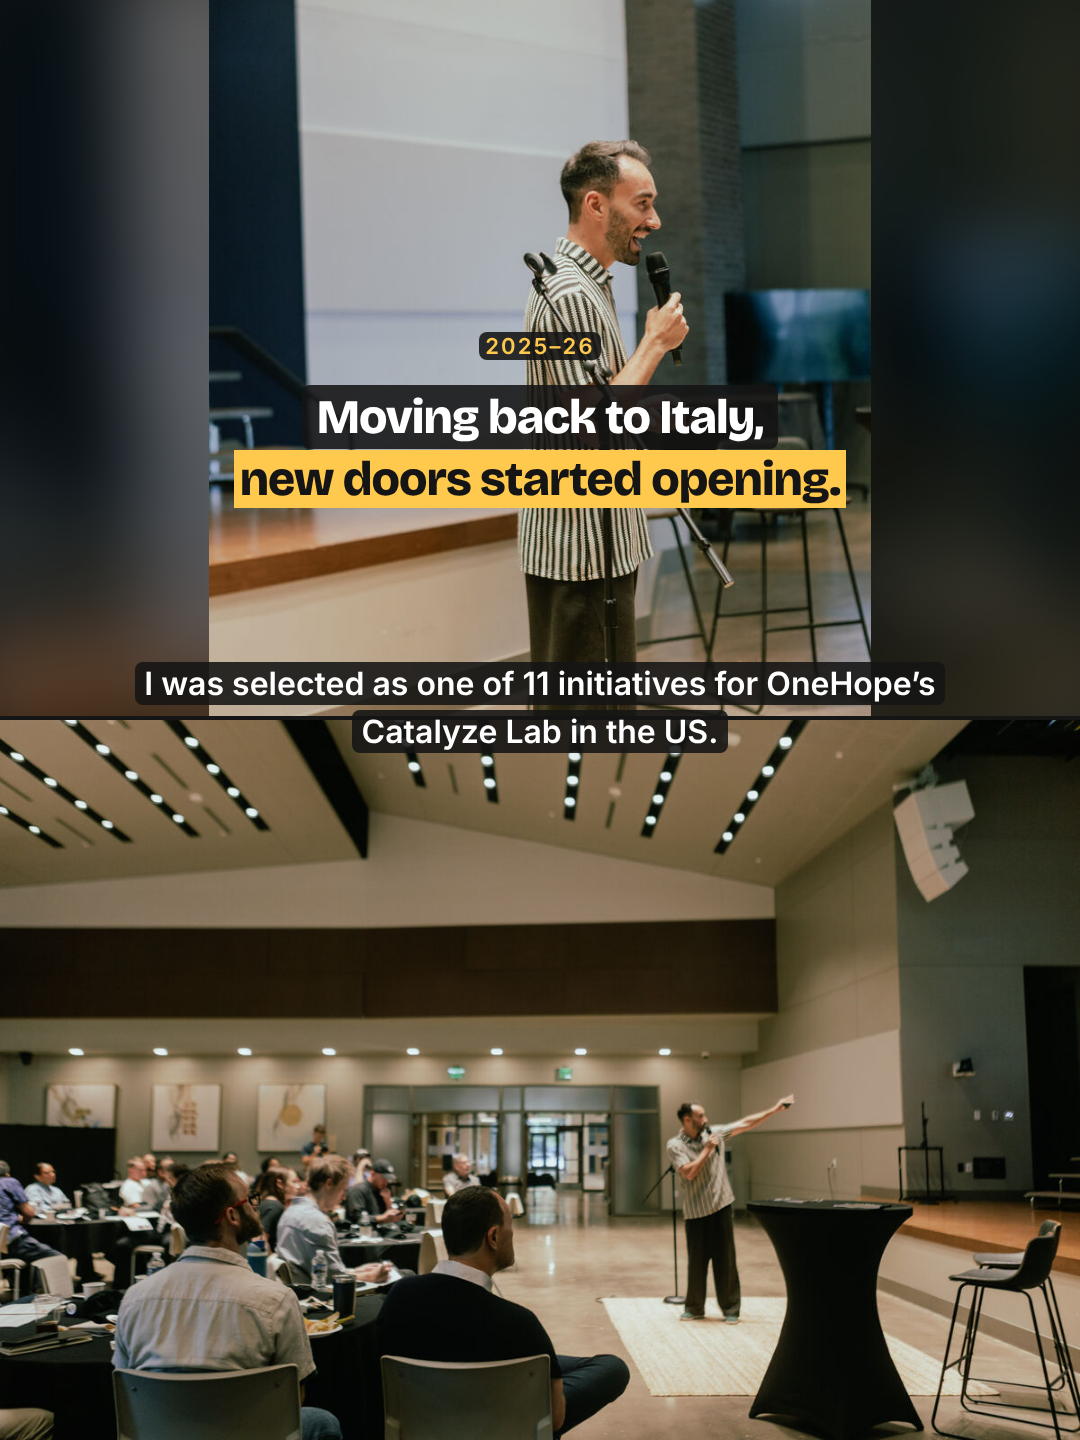
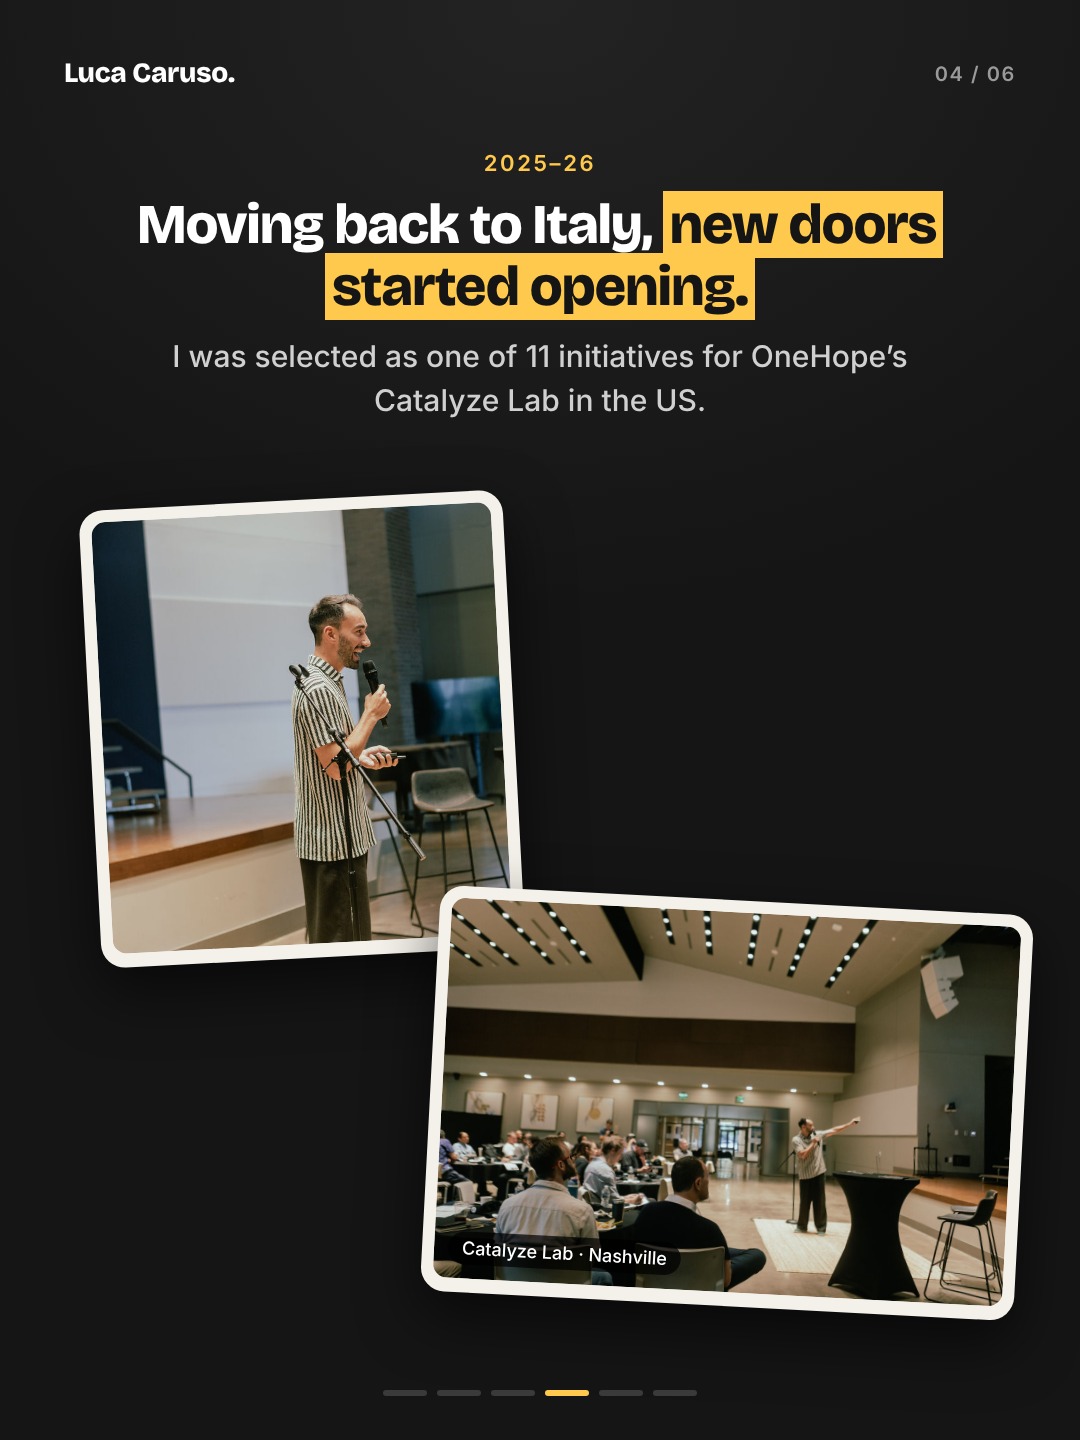
Instagram slides: photo-card redesign, Comment MEDIA CTA
Claude-Session: https://claude.ai/code/session_01QugX99JcozbgDXdxc4CrwP

diff --git a/instagram/slides.html b/instagram/slides.html
@@ -2,88 +2,110 @@
 <html><head><meta charset="utf-8">
 <link rel="stylesheet" href="https://fonts.googleapis.com/css2?family=Bricolage+Grotesque:opsz,wght@12..96,800&family=Inter:wght@500;600&family=Caveat:wght@600&display=swap">
 <style>
-:root{--bg:#151515;--y:#FFC94D}
+:root{--bg:#151515;--y:#FFC94D;--body:#d0d0d0;--muted:#9a9a9a}
 *{box-sizing:border-box}
 body{margin:0;background:#000;display:flex;flex-direction:column;gap:40px;padding:40px;align-items:flex-start}
-/* 3:4 like the original posts */
-.slide{position:relative;width:1080px;height:1440px;overflow:hidden;background:var(--bg);color:#fff;font-family:Inter,sans-serif}
-/* a frame shows the whole photo (contain); any gap is filled with a blurred copy */
-.frame{position:absolute;left:0;width:100%;overflow:hidden;background:var(--bg)}
-.frame .blur{position:absolute;inset:-40px;width:calc(100% + 80px);height:calc(100% + 80px);object-fit:cover;filter:blur(40px) brightness(.55)}
-.frame .full{position:absolute;inset:0;width:100%;height:100%;object-fit:contain}
-.h{font-family:"Bricolage Grotesque",Inter,sans-serif;font-weight:800;letter-spacing:-.02em;line-height:1.1;margin:0;color:#fff;text-align:center}
+/* 3:4, like the original posts */
+.slide{position:relative;width:1080px;height:1440px;overflow:hidden;color:#fff;font-family:Inter,sans-serif;
+  background:radial-gradient(120% 70% at 50% 0%,#232323 0%,#151515 60%)}
+.brand{position:absolute;left:64px;top:56px;font-family:"Bricolage Grotesque",Inter,sans-serif;font-weight:800;font-size:28px;letter-spacing:-.01em}
+.count{position:absolute;right:64px;top:62px;font:600 20px Inter,sans-serif;letter-spacing:.08em;color:var(--muted)}
+.bars{position:absolute;left:0;right:0;bottom:44px;display:flex;justify-content:center;gap:10px}
+.bars i{display:block;width:44px;height:6px;border-radius:3px;background:#3a3a3a}
+.bars i.on{background:var(--y)}
+.text{position:absolute;left:80px;right:80px;display:flex;flex-direction:column;align-items:center;gap:18px;text-align:center}
+.kicker{margin:0;font:600 22px Inter,sans-serif;letter-spacing:.12em;text-transform:uppercase;color:var(--y)}
+.h{margin:0;font-family:"Bricolage Grotesque",Inter,sans-serif;font-weight:800;letter-spacing:-.02em;line-height:1.1;font-size:56px}
 .hl{background:var(--y);color:#151515;padding:0 .12em;-webkit-box-decoration-break:clone;box-decoration-break:clone}
-.box{background:#151515e0;padding:.06em .3em;line-height:1.5;-webkit-box-decoration-break:clone;box-decoration-break:clone;border-radius:8px}
-.kicker{margin:0;font:600 22px Inter,sans-serif;letter-spacing:.1em;text-transform:uppercase;color:var(--y);text-align:center}
-.body{margin:0;font:500 30px/1.5 Inter,sans-serif;color:#fff;text-align:center}
-.hand{font-family:Caveat,cursive;font-weight:600;color:#fff}
-.text{position:absolute;left:90px;right:90px;display:flex;flex-direction:column;gap:18px;align-items:center}
+.body{margin:0;font:500 30px/1.45 Inter,sans-serif;color:var(--body);max-width:860px}
+/* photo cards: whole photo, never cropped */
+.card{position:absolute;padding:12px 12px 14px;background:#f4f1ea;border-radius:24px;box-shadow:0 24px 60px #00000099}
+.card img{display:block;height:auto;border-radius:14px}
+.pill{position:absolute;left:26px;bottom:28px;padding:6px 14px;border-radius:999px;background:#000000b3;color:#fff;font:500 18px Inter,sans-serif}
+.hand{position:absolute;font-family:Caveat,cursive;font-weight:600;color:#fff}
 </style></head><body>
 
-<!-- SLIDE 1: hook (whole photo) -->
+<!-- 1 · HOOK -->
 <div class="slide" id="s1">
-  <div class="frame" style="top:0;height:1440px"><img class="blur" src="../images/hero-luca.jpg"><img class="full" src="../images/hero-luca.jpg"></div>
-  <div class="text" style="top:1000px">
-    <h1 class="h" style="font-size:56px"><span class="box">I&rsquo;ve been carrying this in my heart</span><br><span class="hl">for years&hellip;</span></h1>
+  <div class="brand">Luca Caruso.</div><div class="count">01 / 06</div>
+  <div class="card" style="left:228px;top:150px;transform:rotate(-3deg)"><img src="../images/hero-luca.jpg" style="width:600px"></div>
+  <div class="text" style="top:1130px">
+    <h1 class="h" style="font-size:64px">I&rsquo;ve been carrying this in my heart <span class="hl">for years&hellip;</span></h1>
   </div>
+  <div class="hand" style="right:64px;bottom:80px;font-size:40px;transform:rotate(-4deg)">swipe &rarr;</div>
+  <div class="bars"><i class="on"></i><i></i><i></i><i></i><i></i><i></i></div>
 </div>
 
-<!-- SLIDE 2: 2012 mission trip (both photos whole) -->
+<!-- 2 · 2012 -->
 <div class="slide" id="s2">
-  <div class="frame" style="top:0;height:736px"><img class="blur" src="../images/luca-2012.jpg"><img class="full" src="../images/luca-2012.jpg"></div>
-  <div class="frame" style="top:740px;height:700px"><img class="blur" src="../images/tour-giallo-2012.jpg"><img class="full" src="../images/tour-giallo-2012.jpg"></div>
-  <div class="hand" style="position:absolute;left:96px;top:600px;font-size:44px;transform:rotate(-6deg)">me, age 16</div>
-  <svg style="position:absolute;left:170px;top:480px" width="150" height="110" viewBox="0 0 150 110" fill="none"><path d="M8 100 C 24 54, 66 30, 128 22" stroke="#fff" stroke-width="5" stroke-linecap="round"/><path d="M104 6 L130 22 L108 44" stroke="#fff" stroke-width="5" stroke-linecap="round" stroke-linejoin="round"/></svg>
-  <div class="text" style="top:1010px">
-    <h2 class="h" style="font-size:48px"><span class="box">In 2012 I joined my</span> <span class="hl">first mission trip.</span></h2>
-    <p class="body"><span class="box">And got a burden to see people experience Jesus.</span></p>
+  <div class="brand">Luca Caruso.</div><div class="count">02 / 06</div>
+  <div class="text" style="top:150px">
+    <p class="kicker">2012</p>
+    <h2 class="h">In 2012 I joined my <span class="hl">first mission trip.</span></h2>
+    <p class="body">And got a burden to see people experience Jesus.</p>
   </div>
+  <div class="card" style="left:80px;top:440px;transform:rotate(-4deg)"><img src="../images/luca-2012.jpg" style="width:400px"></div>
+  <div class="card" style="left:440px;top:910px;transform:rotate(3deg)"><img src="../images/tour-giallo-2012.jpg" style="width:560px"><span class="pill">2012 &middot; Mission</span></div>
+  <div class="hand" style="left:620px;top:540px;font-size:46px;transform:rotate(-6deg)">me, age 16</div>
+  <svg style="position:absolute;left:530px;top:600px" width="140" height="110" viewBox="0 0 140 110" fill="none"><path d="M118 10 C 90 30, 60 60, 22 86" stroke="#fff" stroke-width="5" stroke-linecap="round"/><path d="M26 58 L20 88 L50 92" stroke="#fff" stroke-width="5" stroke-linecap="round" stroke-linejoin="round"/></svg>
+  <div class="bars"><i></i><i class="on"></i><i></i><i></i><i></i><i></i></div>
 </div>
 
-<!-- SLIDE 3: Jesus Revolution (whole photo) -->
+<!-- 3 · JESUS REVOLUTION -->
 <div class="slide" id="s3">
-  <div class="frame" style="top:0;height:1440px"><img class="blur" src="../images/jesus-revolution.jpg"><img class="full" src="../images/jesus-revolution.jpg" style="object-position:50% 100%"></div>
-  <div class="text" style="top:110px">
+  <div class="brand">Luca Caruso.</div><div class="count">03 / 06</div>
+  <div class="text" style="top:150px">
     <p class="kicker">2018&ndash;2025</p>
-    <h2 class="h" style="font-size:48px">I joined Jesus Revolution as the<br><span class="hl">media leader.</span></h2>
+    <h2 class="h">I joined Jesus Revolution as the <span class="hl">media leader.</span></h2>
     <p class="body">Finding new ways to reach this generation with the Gospel through media.</p>
   </div>
+  <div class="card" style="left:192px;top:500px;transform:rotate(2deg)"><img src="../images/jesus-revolution.jpg" style="width:672px"><span class="pill">Jesus Revolution</span></div>
+  <div class="bars"><i></i><i></i><i class="on"></i><i></i><i></i><i></i></div>
 </div>
 
-<!-- SLIDE 4: back to Italy + Catalyze Lab (both photos whole) -->
+<!-- 4 · BACK TO ITALY / CATALYZE LAB -->
 <div class="slide" id="s4">
-  <div class="frame" style="top:0;height:716px"><img class="blur" src="../images/catalyze-JAY_2170.jpg"><img class="full" src="../images/catalyze-JAY_2170.jpg"></div>
-  <div class="frame" style="top:720px;height:720px"><img class="blur" src="../images/catalyze-JAY_2199.jpg"><img class="full" src="../images/catalyze-JAY_2199.jpg"></div>
-  <div class="text" style="top:330px">
-    <p class="kicker"><span class="box" style="font-size:22px">2025&ndash;26</span></p>
-    <h2 class="h" style="font-size:48px"><span class="box">Moving back to Italy,</span><br><span class="hl">new doors started opening.</span></h2>
+  <div class="brand">Luca Caruso.</div><div class="count">04 / 06</div>
+  <div class="text" style="top:150px">
+    <p class="kicker">2025&ndash;26</p>
+    <h2 class="h">Moving back to Italy, <span class="hl">new doors started opening.</span></h2>
+    <p class="body">I was selected as one of 11 initiatives for OneHope&rsquo;s Catalyze Lab in the US.</p>
   </div>
-  <div class="text" style="top:660px">
-    <p class="body" style="font-size:32px;font-weight:600"><span class="box">I was selected as one of 11 initiatives for OneHope&rsquo;s Catalyze Lab in the US.</span></p>
-  </div>
+  <div class="card" style="left:90px;top:500px;transform:rotate(-3deg)"><img src="../images/catalyze-JAY_2170.jpg" style="width:400px"></div>
+  <div class="card" style="left:430px;top:900px;transform:rotate(3deg)"><img src="../images/catalyze-JAY_2199.jpg" style="width:570px"><span class="pill">Catalyze Lab &middot; Nashville</span></div>
+  <div class="bars"><i></i><i></i><i></i><i class="on"></i><i></i><i></i></div>
 </div>
 
-<!-- SLIDE 5: Yous Conference (four photos whole) -->
+<!-- 5 · YOUS CONFERENCE -->
 <div class="slide" id="s5">
-  <div class="frame" style="top:0;left:0;width:538px;height:718px"><img class="blur" src="../images/yous-0.jpg"><img class="full" src="../images/yous-0.jpg"></div>
-  <div class="frame" style="top:0;left:542px;width:538px;height:718px"><img class="blur" src="../images/yous-3.jpg"><img class="full" src="../images/yous-3.jpg"></div>
-  <div class="frame" style="top:722px;left:0;width:538px;height:718px"><img class="blur" src="../images/yous-7.jpg"><img class="full" src="../images/yous-7.jpg"></div>
-  <div class="frame" style="top:722px;left:542px;width:538px;height:718px"><img class="blur" src="../images/yous-1.jpg"><img class="full" src="../images/yous-1.jpg"></div>
-  <div class="text" style="top:600px">
-    <h2 class="h" style="font-size:44px"><span class="box">On October 31st, we helped</span><br><span class="hl">316 young people share their faith online,</span><br><span class="box">many for the first time.</span></h2>
-    <p class="body"><span class="box">I believe we&rsquo;re just scratching the surface of what&rsquo;s possible with digital evangelism.</span></p>
+  <div class="brand">Luca Caruso.</div><div class="count">05 / 06</div>
+  <div class="text" style="top:140px;gap:6px">
+    <p class="kicker">On October 31st</p>
+    <p class="h" style="font-size:200px;line-height:1;color:var(--y);letter-spacing:-.04em">316</p>
+    <h2 class="h" style="font-size:48px">young people shared their faith online, <span class="hl">many for the first time.</span></h2>
   </div>
+  <div class="card" style="left:40px;top:640px;transform:rotate(-4deg)"><img src="../images/yous-0.jpg" style="width:226px"></div>
+  <div class="card" style="left:290px;top:680px;transform:rotate(2deg)"><img src="../images/yous-3.jpg" style="width:226px"></div>
+  <div class="card" style="left:540px;top:650px;transform:rotate(-2deg)"><img src="../images/yous-7.jpg" style="width:226px"></div>
+  <div class="card" style="left:790px;top:690px;transform:rotate(4deg)"><img src="../images/yous-1.jpg" style="width:226px"></div>
+  <div class="text" style="top:1200px">
+    <p class="body">I believe we&rsquo;re just scratching the surface of what&rsquo;s possible with <strong style="color:#fff">digital evangelism.</strong></p>
+  </div>
+  <div class="bars"><i></i><i></i><i></i><i></i><i class="on"></i><i></i></div>
 </div>
 
-<!-- SLIDE 6: CTA (whole photo, already 3:4) -->
+<!-- 6 · CTA -->
 <div class="slide" id="s6">
-  <div class="frame" style="top:0;height:1440px"><img class="blur" src="../images/nashville-2026.jpg"><img class="full" src="../images/nashville-2026.jpg"></div>
-  <div class="text" style="top:250px">
-    <p class="body" style="font-size:34px;font-weight:600"><span class="box">Over the next months, I&rsquo;ll be sharing what we&rsquo;re building, what we&rsquo;re learning, the stories, challenges and everything God is doing.</span></p>
+  <div class="brand">Luca Caruso.</div><div class="count">06 / 06</div>
+  <div class="text" style="top:140px">
+    <p class="body">Over the next months, I&rsquo;ll be sharing what we&rsquo;re building, what we&rsquo;re learning, the stories, challenges and everything God is doing.</p>
   </div>
-  <div class="text" style="top:1070px">
-    <h2 class="h" style="font-size:52px"><span class="hl">Drop the email in description</span><br><span class="hl">to join the journey!</span></h2>
+  <div class="card" style="left:258px;top:350px;transform:rotate(-2deg)"><img src="../images/nashville-2026.jpg" style="width:540px"></div>
+  <div class="text" style="top:1150px;gap:14px">
+    <h2 class="h" style="font-size:72px">Comment <span class="hl">&ldquo;MEDIA&rdquo;</span></h2>
+    <p class="body" style="color:#fff">and I&rsquo;ll send you the link to join the journey.</p>
   </div>
+  <div class="bars"><i></i><i></i><i></i><i></i><i></i><i class="on"></i></div>
 </div>
 
 </body></html>
